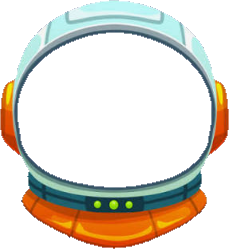
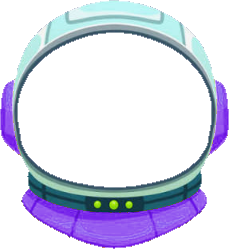
add stars falling down

Changed region(s): [[0.0917, 0.759, 0.917, 1.0], [0.917, 0.3092, 1.0, 0.6185], [0.0, 0.3092, 0.0917, 0.6185]]

diff --git a/src/components/SpaceBackground.jsx b/src/components/SpaceBackground.jsx
@@ -3,10 +3,20 @@ import "./SpaceBackground.css";
 
 /*
   Page-wide universe: a fixed gradient + twinkling stars (pure CSS), and a canvas of
-  meteors. Each meteor enters from the right / top-right, flies left and is pulled
-  down by "gravity", so it follows a falling curve rather than a straight line.
+  meteors. Each meteor enters from the right / top-right and flies in a straight line,
+  slanting down toward the left at about the same angle as the others in its shower.
+
+  Meteors arrive in showers: every BURST_EVERY_MS a handful (4 or 5) fall one after another.
+  The whole layer is position:fixed, so it always fills the visible screen: wherever you have
+  scrolled to, the shower plays out right there, behind the page content.
 */
-const MAX_METEORS = 6;
+const BURST_EVERY_MS = 6000; // time between showers
+const BURST_MIN = 4; // meteors per shower: 4 or 5
+const BURST_MAX = 5;
+const BURST_SPREAD_MS = 1500; // the meteors of one shower start spread over this long
+const FIRST_BURST_MS = 1000; // first shower, shortly after the page loads
+const FALL_ANGLE_DEG = 35; // how steeply they fall: 0 = flat across the screen, 90 = straight down
+const ANGLE_JITTER_DEG = 5; // each meteor's angle varies by up to this much, so they are nearly parallel
 const TAIL_SECONDS = 0.5; // how long the glowing tail is
 const COLORS = ["255,255,255", "170,232,255", "200,184,255"]; // white, icy blue, lavender
 
@@ -24,7 +34,8 @@ export default function SpaceBackground() {
     const meteors = [];
     let raf = 0;
     let last = performance.now();
-    let nextSpawn = last + 600;
+    let nextBurst = last + FIRST_BURST_MS; // when the next shower starts
+    const queue = []; // start times of meteors in the current shower that haven't launched yet
     let dirty = false; // true while something is on the canvas that needs clearing
 
     function resize() {
@@ -38,13 +49,13 @@ export default function SpaceBackground() {
 
     function spawn() {
       const fromTop = Math.random() < 0.6; // enter along the top edge, or down the right edge
-      const speed = 420 + Math.random() * 380;
+      const speed = 520 + Math.random() * 300;
+      const angle = ((FALL_ANGLE_DEG + (Math.random() * 2 - 1) * ANGLE_JITTER_DEG) * Math.PI) / 180;
       meteors.push({
-        x: fromTop ? W * (0.35 + Math.random() * 0.75) : W + 40,
-        y: fromTop ? -40 : Math.random() * H * 0.55,
-        vx: -speed * (0.85 + Math.random() * 0.35), // always travelling right -> left
-        vy: speed * (0.1 + Math.random() * 0.25), // a little downward to begin with...
-        g: 320 + Math.random() * 420, // ...then gravity bends the path down
+        x: fromTop ? W * (0.4 + Math.random() * 0.85) : W + 40,
+        y: fromTop ? -40 : Math.random() * H * 0.5,
+        vx: -speed * Math.cos(angle), // right -> left...
+        vy: speed * Math.sin(angle), // ...and down: constant, so the path is a straight line
         width: 1.4 + Math.random() * 1.6,
         color: COLORS[Math.floor(Math.random() * COLORS.length)],
         trail: [], // recent positions, newest last
@@ -55,9 +66,17 @@ export default function SpaceBackground() {
       const dt = Math.min((now - last) / 1000, 0.05);
       last = now;
 
-      if (now >= nextSpawn && meteors.length < MAX_METEORS) {
-        spawn();
-        nextSpawn = now + 900 + Math.random() * 2200;
+      if (now >= nextBurst) {
+        // a new shower: schedule 4-5 meteors at random moments over the next second and a half
+        const count = BURST_MIN + Math.floor(Math.random() * (BURST_MAX - BURST_MIN + 1));
+        for (let i = 0; i < count; i++) queue.push(now + Math.random() * BURST_SPREAD_MS);
+        nextBurst = now + BURST_EVERY_MS;
+      }
+      for (let q = queue.length - 1; q >= 0; q--) {
+        if (now >= queue[q]) {
+          spawn();
+          queue.splice(q, 1);
+        }
       }
 
       if (meteors.length || dirty) {
@@ -67,19 +86,17 @@ export default function SpaceBackground() {
 
       for (let m = meteors.length - 1; m >= 0; m--) {
         const s = meteors[m];
-        s.vy += s.g * dt;
         s.x += s.vx * dt;
         s.y += s.vy * dt;
-        s.trail.push({ x: s.x, y: s.y, t: now });
+        const gone = s.x < -200 || s.y > H + 200; // head has left the screen
+        if (!gone) s.trail.push({ x: s.x, y: s.y, t: now });
         while (s.trail.length && now - s.trail[0].t > TAIL_SECONDS * 1000) s.trail.shift();
-
-        if (s.x < -200 || s.y > H + 200) {
-          // let the tail finish fading out once the head has left the screen
-          if (!s.trail.length || now - s.trail[s.trail.length - 1].t > TAIL_SECONDS * 1000) {
-            meteors.splice(m, 1);
-            continue;
-          }
+        if (gone && !s.trail.length) {
+          // head is off-screen and the tail has finished fading: remove it
+          meteors.splice(m, 1);
+          continue;
         }
+        if (s.trail.length < 2) continue; // nothing to draw yet
 
         // tail: short segments that get brighter and thicker toward the head
         ctx.lineCap = "round";
